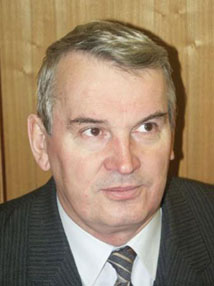
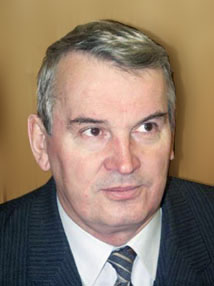
move .htm from dpeech url, improve timofeev photo

diff --git a/speech/index.htm b/speech/index.htm
@@ -10,7 +10,7 @@
 	<meta property="og:url" content= "http://rk.bmstu.ru/speech.htm" />
 	<meta property="og:locale" content="ru_RU" />
 	<meta property="og:site_name" content="Факультет РК МГТУ им. Н.&nbsp;Э.&nbsp;Баумана" />
-	<link rel="stylesheet" href="css.css">
+	<link rel="stylesheet" href="/css.css">
 	<link href="https://fonts.googleapis.com/css?family=PT+Mono|PT+Sans" rel="stylesheet">
 	<link rel="icon" type="image/png" href="/favicon.png" />
 </head>
@@ -18,9 +18,9 @@
 	<header>
 		<nav>
 			<a href="/"><h1>РК</h1></a>
-			<a href="http://bmstu.ru">Сайт МГТУ <img src="img/mhts-icon.png" alt="mhts" /></a>
-			<a href="https://vk.com/priem_rk">Приёмная комиссия <img src="img/vk-icon.png" alt="vk" /></a>
-			<a href="https://vk.com/decanat_rk">Деканат <img src="img/vk-icon.png" alt="vk" /></a>
+			<a href="http://bmstu.ru">Сайт МГТУ <img src="/img/mhts-icon.png" alt="mhts" /></a>
+			<a href="https://vk.com/priem_rk">Приёмная комиссия <img src="/img/vk-icon.png" alt="vk" /></a>
+			<a href="https://vk.com/decanat_rk">Деканат <img src="/img/vk-icon.png" alt="vk" /></a>
 		</nav>
 		<div class="subnav">
 			<a href="http://hoster.bmstu.ru/~rk1/" class="rk1">РК-1</a>

diff --git a/index.htm b/index.htm
@@ -11,7 +11,7 @@
 	<meta property="og:locale" content="ru_RU" />
 	<meta property="og:site_name" content="Факультет РК МГТУ им. Н.&nbsp;Э.&nbsp;Баумана" />
 	<link href="https://fonts.googleapis.com/css?family=PT+Mono|PT+Sans" rel="stylesheet">
-	<link rel="stylesheet" href="css.css">
+	<link rel="stylesheet" href="/css.css">
 	<link href="lib/aos/aos.css" rel="stylesheet">
     <script src="lib/aos/aos.js"></script>
 	<link rel="icon" type="image/png" href="/favicon.png" />
@@ -28,7 +28,7 @@
 			<p>Боло: первый русский шаробот</p>
 			<a href="https://habrahabr.ru/post/306456/">Читать</a>
 		</div>
-		<a class="lead-in" href="speech.htm">
+		<a class="lead-in" href="/speech">
 			<p>“… обеспечить создание интегрированных автоматизированных систем проектирования и производства в машиностроении и приборостроении.”</p>
 			<p>Рукокодитель факультета РК<br />Тимофеев Геннадий Алексеевич</p>
 		</a>

diff --git a/index_dev.htm b/index_dev.htm
@@ -11,7 +11,7 @@
 	<meta property="og:locale" content="ru_RU" />
 	<meta property="og:site_name" content="Факультет РК МГТУ им. Н.&nbsp;Э.&nbsp;Баумана" />
 	<link href="https://fonts.googleapis.com/css?family=PT+Mono|PT+Sans" rel="stylesheet">
-	<link rel="stylesheet" href="css.css">
+	<link rel="stylesheet" href="/css.css">
 	<link href="lib/aos/aos.css" rel="stylesheet">
     <script src="lib/aos/aos.js"></script>
 	<link rel="icon" type="image/png" href="/favicon.png" />
@@ -28,7 +28,7 @@
 			<p>Боло: первый русский шаробот</p>
 			<a href="https://habrahabr.ru/post/306456/">Читать</a>
 		</div>
-		<a class="lead-in" href="speech.htm">
+		<a class="lead-in" href="/speech">
 			<p>“… обеспечить создание интегрированных автоматизированных систем проектирования и производства в машиностроении и приборостроении.”</p>
 			<p>Рукокодитель факультета РК<br />Тимофеев Геннадий Алексеевич</p>
 		</a>
